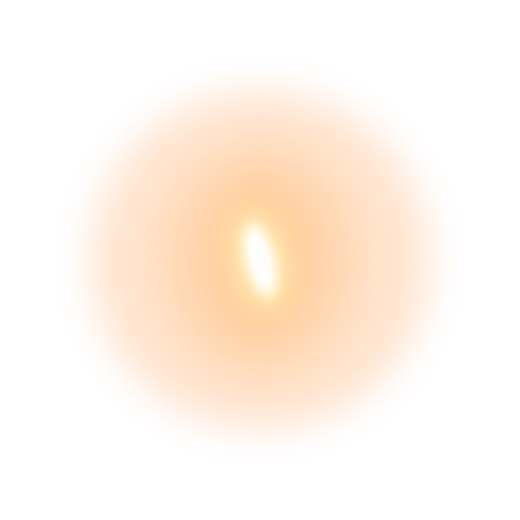
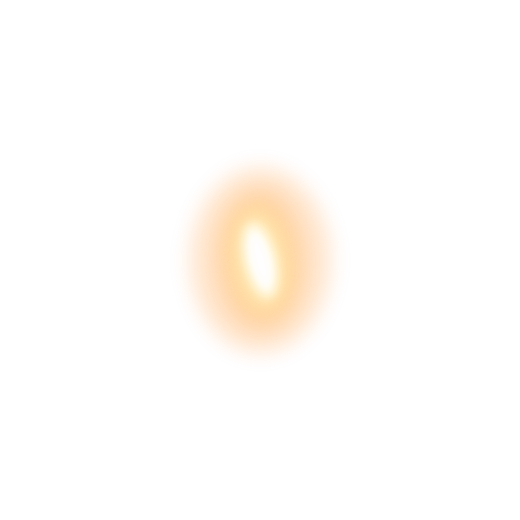
Nightlight: the diamond ring's glow small and soft (no haze bulging out past the moon)
Claude-Session: https://claude.ai/code/session_01NDsvQ4w6b4M39K7iEhCswz

Changed region(s): [[0.1538, 0.1538, 0.8308, 0.8308]]

diff --git a/src/components/Nightlight.js b/src/components/Nightlight.js
@@ -28,7 +28,7 @@ import DaydreamVideo from './Daydream';
 
 const SUN = require('../../assets/nightlight-sun.png');
 const CORONA = require('../../assets/nightlight-corona.png');
-const DIAMOND = require('../../assets/nightlight-diamond.png'); // the diamond ring: a thin, tilted bead of light at the moon's edge (Jörg, 31 Oct 2026)
+const DIAMOND = require('../../assets/nightlight-diamond.png'); // the diamond ring: a thin, tilted bead of light at the moon's edge, with a small soft glow that stays within the ring (no haze bulging out: Jörg, 31 Oct 2026)
 const CREAM = '#f4e2cf';
 const BASE = '#1e1e20'; // the popup's dark grey (a deep, quiet grey at night)
 const GRAIN = require('../../assets/noise.png'); // a fine grain over the alarm popup, so it feels like a real object
